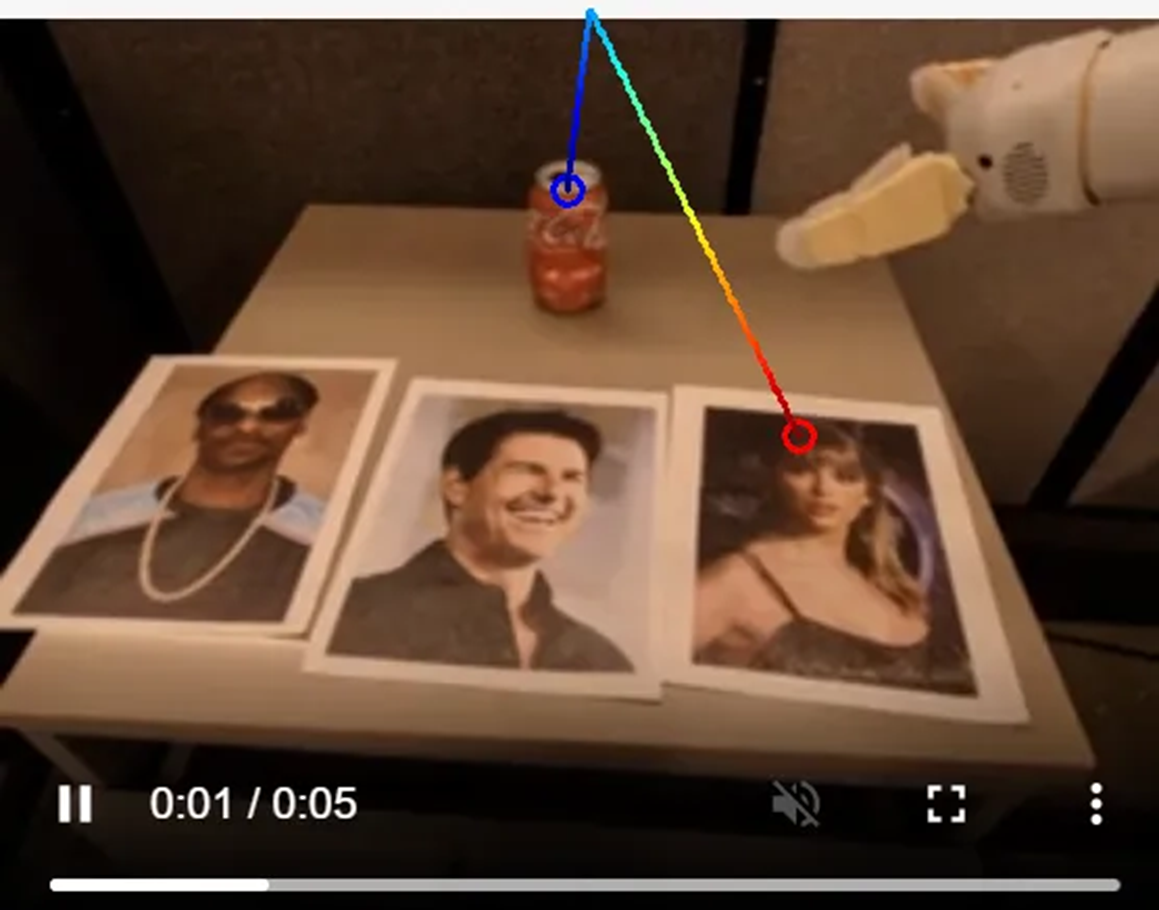
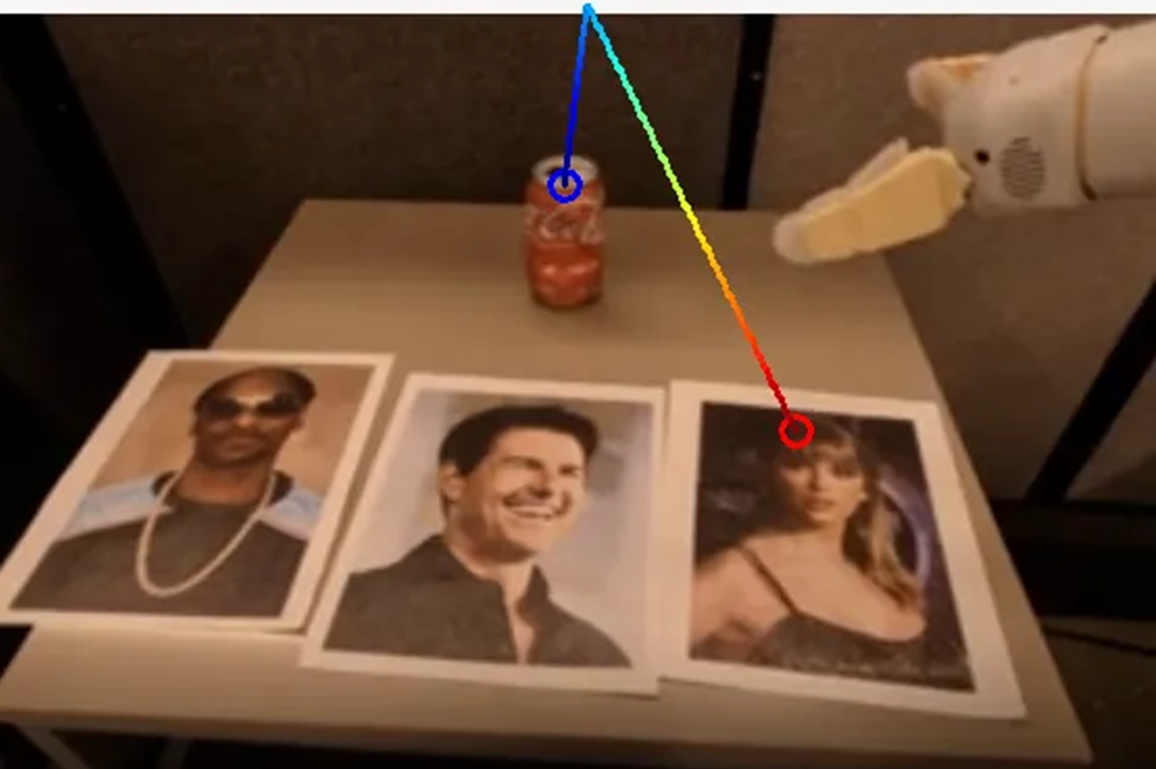
changed prompt robustness figures to not show video bar, reduced the prompt robustness table from 5 rows to 2, added section for vlm generalization, fixed image quality and their clickability

diff --git a/index.html b/index.html
@@ -188,7 +188,7 @@ href="https://cdn.jsdelivr.net/gh/jpswalsh/academicons@1/css/academicons.min.css
         <h2 class="title is-3">Summary</h2>
 	<p>
 	    <figure>
-	    <a href="./figs/method.png"><img src="./figs/method.png"></a>
+	    <img src="./figs/method.png">
 	    </figure>
         <div class="content has-text-justified">
 	  We propose a Hierarchical VLA architecture, <b>HAMSTER</b>, which can enable robotic manipulation with <b>semantic, visual, and geometric generalization</b> after being trained on easy to collect, <b>off-domain data</b>.
@@ -209,7 +209,7 @@ href="https://cdn.jsdelivr.net/gh/jpswalsh/academicons@1/css/academicons.min.css
   <div class="content has-text-justified">
     <h4 class="title is-5">1. VLM and Policy Training </h4>
     <figure>
-    <a href="./figs/hamster_training_fig.png"><img src="./figs/hamster_training_fig.png"></a>
+    <img src="./figs/hamster_training_fig.png">
     </figure>
     <p>
       <b>(a): </b>First, we fine-tune a pre-trained VLM on a large, general, off-domain dataset $ \tilde{\mathcal{D}}_\text{off} $ to produce <i>paths</i> and <i>points</i>.
@@ -221,7 +221,7 @@ href="https://cdn.jsdelivr.net/gh/jpswalsh/academicons@1/css/academicons.min.css
     </p> 
   <h4 class="title is-5">2. Inference </h4>
     <figure>
-    <a href="./figs/hamster_inference_fig.png"><img src="./figs/hamster_inference_fig.png"></a>
+    <img src="./figs/hamster_inference_fig.png"></a>
     </figure>
     <p> At inference time, we use the VLM to predict paths for the first observation $o_1$ conditioned on the text instruction. 
       These paths are drawn onto all images that the policy sees, $\tilde{o}_t$, where it then executes low-level environment actions.
@@ -354,6 +354,15 @@ href="https://cdn.jsdelivr.net/gh/jpswalsh/academicons@1/css/academicons.min.css
   <hr>
   </div>
   <br>
+  
+  <div class="container is-max-desktop">
+    <div class="columns is-centered has-text-centered">
+    <h3 class="title is-3">VLM Visual Generalization</h3>
+    <br>
+    </div>
+    <hr>
+  </div>
+
   <div class="container is-max-desktop">
     <div class="columns is-centered has-text-centered">
     <h3 class="title is-3">Off Domain Data VLM Fine-tuning helps with Path Generation</h3>
@@ -535,15 +544,16 @@ href="https://cdn.jsdelivr.net/gh/jpswalsh/academicons@1/css/academicons.min.css
     <div class="columns is-centered has-text-centered">
     <h3 class="title is-3">Comparison against OpenVLA Pre-Trained with Our Sim Data</h3>
     </div>
+    <hr>
   </div>
   <br>
   <div class="container is-max-desktop">
     <div class="columns is-centered has-text-centered">
-    <h3 class="title is-3">Prompt Robustness</h3>
+    <h3 class="title is-3">HAMSTER is Robust to Different Prompts</h3>
     </div>
 
     <h5 class="title is-6">Below we demonstrate the HAMSTER's VLM path generation is robust to various input prompts. The first row contains the original prompt HAMSTER was trained with,
-      and all subsequent rows contain new prompts with changes bolded.
+      and second row contains new prompts with changes bolded.
     </h5>
 
     <table class="table is-bordered is-striped is-narrow is-hoverable is-fullwidth">
@@ -566,7 +576,7 @@ href="https://cdn.jsdelivr.net/gh/jpswalsh/academicons@1/css/academicons.min.css
             <img src="figs/prompt_robustness_1.png" style="max-width: 100%; height: auto;" alt="Prompt Image">
           </td>
         </tr>
-        <tr>
+        <!-- <tr>
           <td>In the image, please execute the command described in &lt;quest&gt;<b>help me to have the coke on the Taylor Swift</b>&lt;/quest&gt;.  
             Provide a sequence of points denoting the trajectory of a robot gripper to achieve the goal.  
             Format your answer as a list of tuples enclosed by &lt;ans&gt; and &lt;/ans&gt; tags. For example:  
@@ -599,7 +609,7 @@ href="https://cdn.jsdelivr.net/gh/jpswalsh/academicons@1/css/academicons.min.css
           <td style="width: 30%; text-align: center;">
             <img src="figs/prompt_robustness_4.png" style="max-width: 100%; height: auto;" alt="Prompt Image">
           </td>
-        </tr>
+        </tr> -->
         <tr>
           <td>
             In the <b>provided</b> image, <b>perform the task</b> described in &lt;quest&gt;<b>have the coke on the lady</b>&lt;/quest&gt;. <b>Generate</b> a sequence of points <b>representing</b> the trajectory of a robot gripper to <b>accomplish</b> the objective.  
